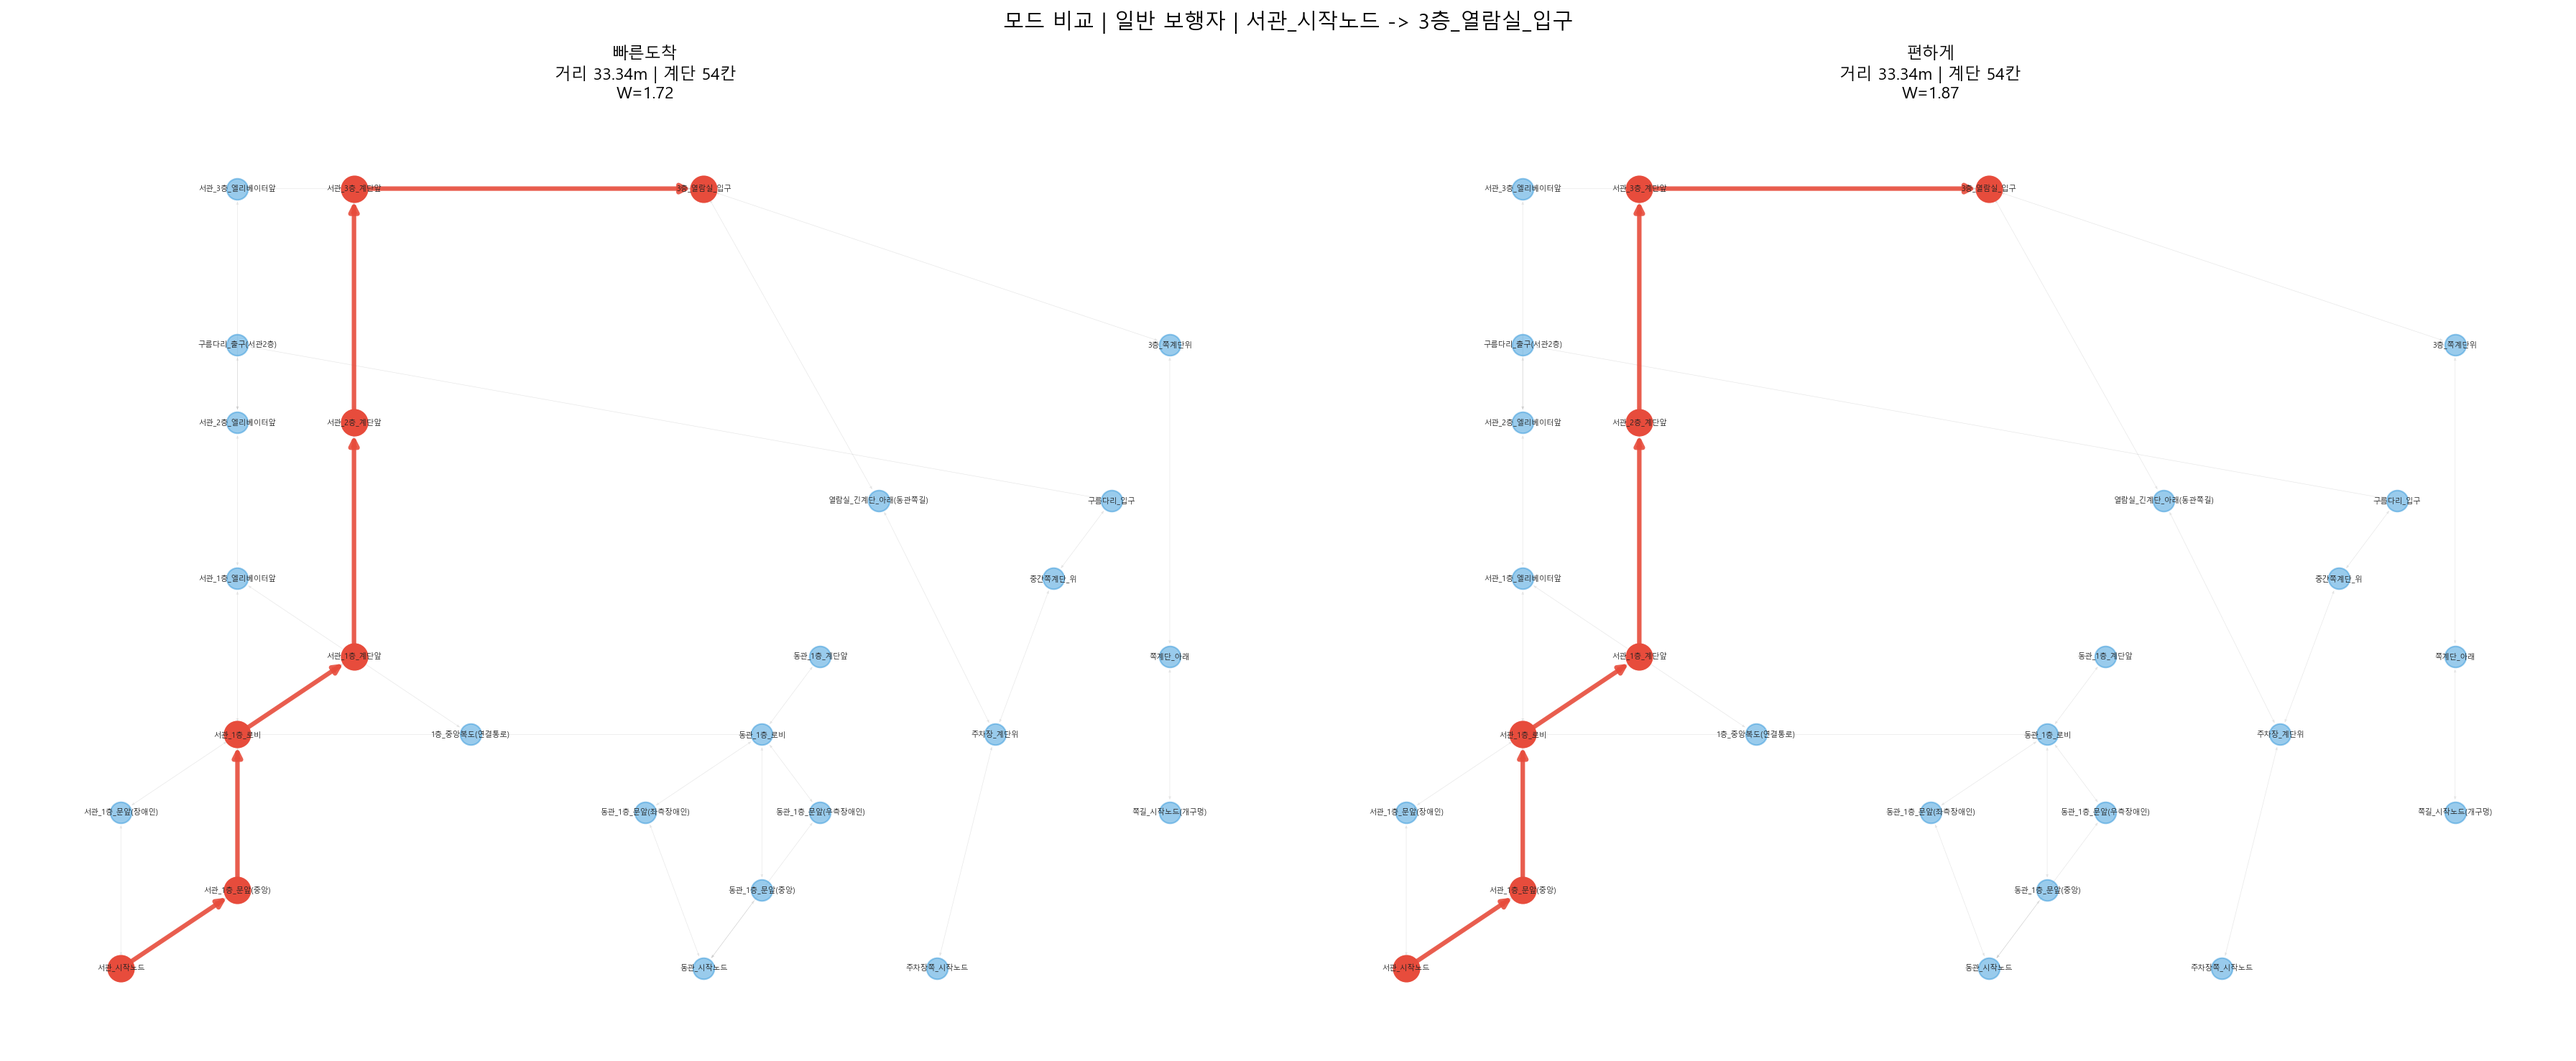
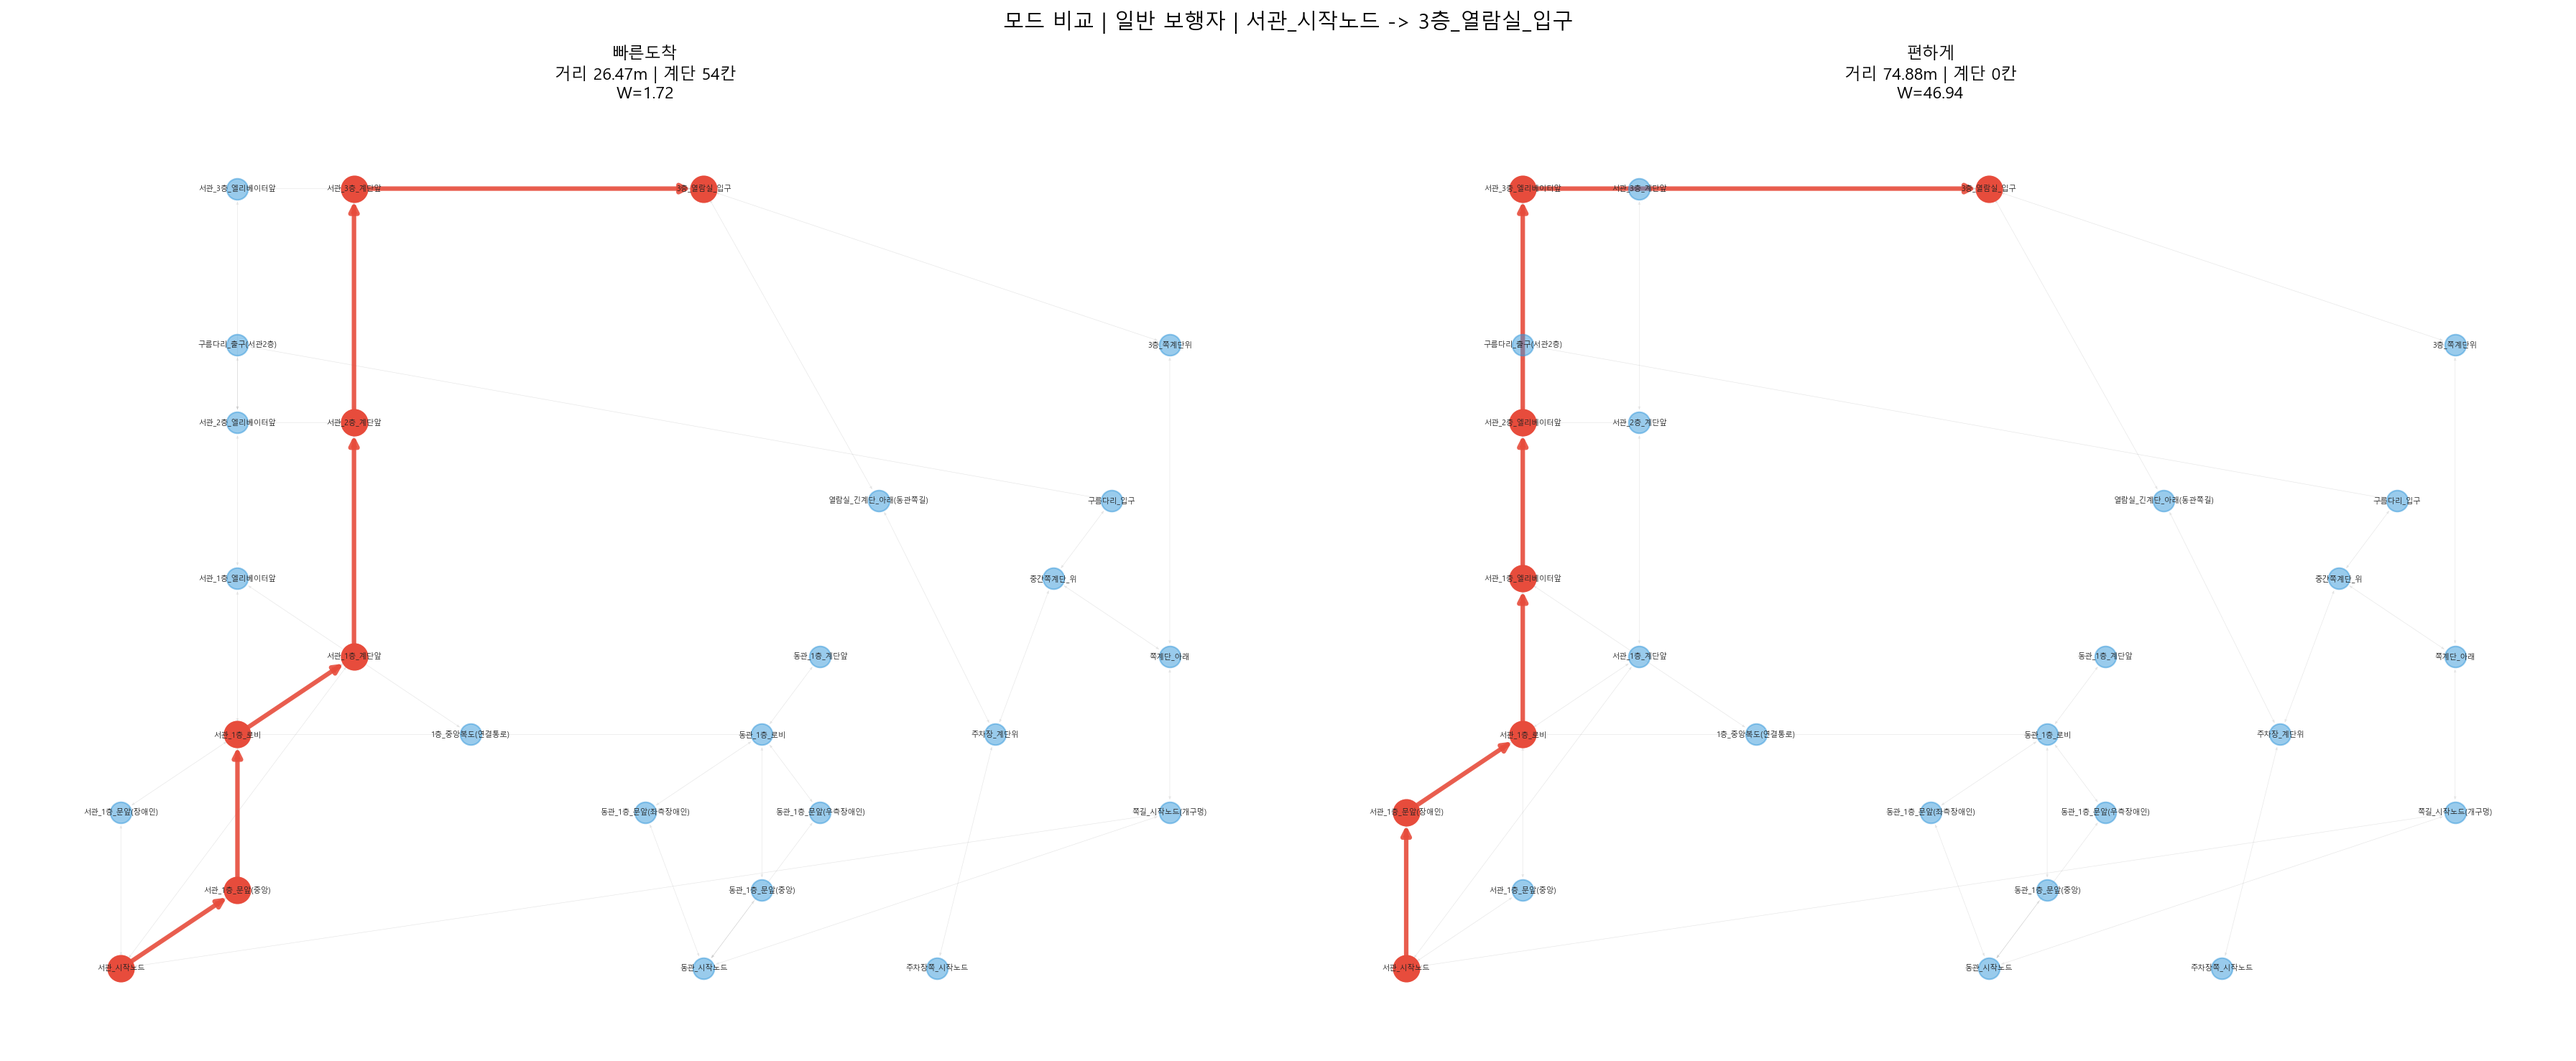
refactor: 무의미한 경로 루프 방지를 위한 길찾기 가중치(Weight) 로직 개선

diff --git a/src/pathfinder.py b/src/pathfinder.py
@@ -47,82 +47,137 @@ def clear_cache():
     _cached_edges = None
 
 
-# ─── 차단 판정 (계단만 차단) ───
-def _is_blocked(edge, profile):
-    stairs = edge["stairs_count"]
-    if profile == "휠체어" and stairs > 0:
-        return True
-    if profile == "유아차" and stairs > 0:
-        return True
-    return False
-
-
-# ─── 가중치 딕셔너리 ───
-WALK_SPEED = 80.0  # m/min
-ELEVATOR_COST = 0.5  # min per floor
-
-STAIR_COST_PER_STEP = {
-    "일반": 0.025,
-    "휠체어": float("inf"),
-    "목발": 0.065,
-    "유아차": float("inf"),
-    "짐": 0.035,
+# ─── 가중치 매트릭스 (독립 변수화) ───
+WALK_SPEEDS = {
+    "일반": 80.0,
+    "휠체어": 55.0,
+    "목발": 40.0,
+    "유아차": 55.0,
+    "짐": 60.0,
 }
 
-STEP_HEIGHT_COST = {
+ELEVATOR_COST = 0.5  # min per floor
+
+STAIR_WEIGHT_MATRIX = {
+    "일반": {
+        "빠른도착": 1.0,
+        "편하게": 2.5
+    },
+    "목발": {
+        "빠른도착": 3.0,
+        "편하게": float("inf")
+    },
+    "짐": {
+        "빠른도착": 2.0,
+        "편하게": 4.0
+    },
+    "휠체어": {
+        "빠른도착": float("inf"),
+        "편하게": float("inf")
+    },
+    "유아차": {
+        "빠른도착": float("inf"),
+        "편하게": float("inf")
+    }
+}
+
+ELEVATOR_WAIT_MATRIX = {
+    "일반": {
+        "빠른도착": 3.0,  # 대기 시간 페널티 적용 (어지간하면 계단 선호)
+        "편하게": 0.2
+    },
+    "목발": {
+        "빠른도착": 0.8,
+        "편하게": 0.2
+    },
+    "짐": {
+        "빠른도착": 1.5,
+        "편하게": 0.2
+    },
+    "휠체어": {
+        "빠른도착": 0.5,
+        "편하게": 0.5
+    },
+    "유아차": {
+        "빠른도착": 0.5,
+        "편하게": 0.5
+    }
+}
+
+STEP_WEIGHT_MATRIX = {
     "일반":   {"없음": 0.0,  "미니": 0.05, "중간": 0.15},
-    "휠체어":  {"없음": 0.0,  "미니": 0.15, "중간": 0.40},
+    "휠체어":  {"없음": 0.0,  "미니": float("inf"), "중간": float("inf")},
     "목발":   {"없음": 0.0,  "미니": 0.12, "중간": 0.35},
-    "유아차":  {"없음": 0.0,  "미니": 0.20, "중간": 0.50},
+    "유아차":  {"없음": 0.0,  "미니": float("inf"), "중간": float("inf")},
     "짐":     {"없음": 0.0,  "미니": 0.05, "중간": 0.15},
 }
 
-DOOR_COST = {
+DOOR_WEIGHT_MATRIX = {
     "일반": {
         "없음": 0.0,
         "밀고당기관문 1번": 0.10,
         "밀고당기관문 2번": 0.20,
         "밀고당기관문 1번 + 자동문 1번": 0.05,
+        "회전문": 0.10,
+        "자동문": 0.0,
+        "밀고 당기는 문": 0.10
     },
     "휠체어": {
         "없음": 0.0,
-        "밀고당기관문 1번": 0.30,
-        "밀고당기관문 2번": 0.50,
-        "밀고당기관문 1번 + 자동문 1번": 0.10,
+        "밀고당기관문 1번": 3.0,
+        "밀고당기관문 2번": 5.0,
+        "밀고당기관문 1번 + 자동문 1번": 1.0,
+        "회전문": float("inf"),
+        "자동문": 1.0,
+        "밀고 당기는 문": 3.0
     },
     "목발": {
         "없음": 0.0,
         "밀고당기관문 1번": 0.15,
         "밀고당기관문 2번": 0.30,
         "밀고당기관문 1번 + 자동문 1번": 0.08,
+        "회전문": 0.50,
+        "자동문": 0.08,
+        "밀고 당기는 문": 0.15
     },
     "유아차": {
         "없음": 0.0,
-        "밀고당기관문 1번": 0.12,
-        "밀고당기관문 2번": 0.25,
-        "밀고당기관문 1번 + 자동문 1번": 0.06,
+        "밀고당기관문 1번": 3.0,
+        "밀고당기관문 2번": 5.0,
+        "밀고당기관문 1번 + 자동문 1번": 1.0,
+        "회전문": float("inf"),
+        "자동문": 1.0,
+        "밀고 당기는 문": 3.0
     },
     "짐": {
         "없음": 0.0,
         "밀고당기관문 1번": 0.12,
         "밀고당기관문 2번": 0.25,
         "밀고당기관문 1번 + 자동문 1번": 0.06,
+        "회전문": 0.20,
+        "자동문": 0.06,
+        "밀고 당기는 문": 0.12
     },
 }
 
-COMFORT_MULTIPLIER = 2.5
+COMFORT_MULTIPLIER = 150.0
 
 
 # ─── 가중치 계산 ───
 def _compute_weight(edge, profile, mode):
+    start = edge.get("start_node", "")
+    end = edge.get("end_node", "")
+
+    # 루프 방지: 시작 노드와 끝 노드가 동일한 불필요한 왕복 엣지의 비용은 무한대로 처리
+    if start == end:
+        return float("inf")
+
     dist = edge["distance_m"]
     stairs = edge["stairs_count"]
     step = edge["step_height"]
     door = edge["door_type"]
     etype = edge["edge_type"]
     obstacle = edge.get("obstacle_info", "")
-    start = edge.get("start_node", "")
-    end = edge.get("end_node", "")
 
     # 열람실 긴계단 식별
     is_long_stair = (
@@ -130,70 +185,50 @@ def _compute_weight(edge, profile, mode):
         "가장 긴 계단" in obstacle
     )
 
+    # 1. 엘리베이터인 경우 가중치 계산
     if etype == "엘리베이터":
-        base = ELEVATOR_COST
+        # 엘리베이터 이용 대기 비용 + 탑승 비용
+        wait_cost = ELEVATOR_WAIT_MATRIX[profile][mode]
+        base = wait_cost + ELEVATOR_COST
+
+    # 2. 계단이 있는 경우 가중치 계산
     elif stairs > 0:
-        is_low_center_stair = "중앙 낮은 계단" in obstacle
-        is_side_road_stair = (
-            "쪽길" in start or "쪽길" in end or
-            "쪽계단" in start or "쪽계단" in end or
-            "쪽길" in obstacle or "쪽계단" in obstacle
-        )
+        # 목발 사용자 빠른 모드: 계단은 최대 2칸까지만 허용, 그 이상은 우회
+        if profile == "목발" and mode == "빠른도착" and stairs > 2:
+            return float("inf")
 
-        # 쪽길입구 계단 간선 예외 처리
-        if is_side_road_stair:
-            if profile in ("휠체어", "유아차", "목발"):
-                return float("inf")
-            else:
-                # 일반 사용자 및 무거운 짐 소지자는 기본 가중치 적용
-                base = stairs * STAIR_COST_PER_STEP[profile]
-        else:
-            # 휠체어 & 유아차는 모든 계단 진입 불가
-            if profile in ("휠체어", "유아차"):
-                return float("inf")
+        # 계단 가중치 룩업
+        stair_weight = STAIR_WEIGHT_MATRIX[profile][mode]
+        if stair_weight == float("inf"):
+            return float("inf")
 
-            # 목발 사용자
-            elif profile == "목발":
-                if mode == "편하게":
-                    # 편하게 선택 시 휠체어와 동일 (계단 절대 불가)
-                    return float("inf")
-                else: # 빠른도착 선택 시
-                    # 완만한 '중앙 낮은 계단'만 예외 허용, 일반 계단은 절대 불가
-                    if is_low_center_stair:
-                        base = 50.0 * (5.0 ** stairs)
-                    else:
-                        return float("inf")
+        base = stairs * stair_weight
 
-            # 무거운 짐 소지자
-            elif profile == "짐":
-                if mode == "편하게":
-                    # 엘리베이터 우회를 최우선 유도하기 위해 페널티 극대화 (5000.0)
-                    base = 5000.0 + stairs * STAIR_COST_PER_STEP[profile]
-                else:
-                    # 빠르게 갈 때는 기본 가중치 적용
-                    base = stairs * STAIR_COST_PER_STEP[profile]
-            else:
-                if mode == "편하게":
-                    # 일반 보행자도 '편하게' 갈 때는 피로도 페널티 가산 (3000.0)
-                    base = 3000.0 + stairs * STAIR_COST_PER_STEP[profile]
-                else:
-                    base = stairs * STAIR_COST_PER_STEP[profile]
-
-        # 열람실 긴계단 추가 페널티 부여 (구름다리 선호)
-        if is_long_stair:
+        # 열람실 긴계단 추가 페널티 부여 (편하게 모드에서만 적용)
+        if is_long_stair and mode == "편하게":
             base += 500.0
+
+    # 3. 평지인 경우
     else:
-        base = dist / WALK_SPEED
+        # 거리 * 거리비용 (거리비용 = 1.0 / 보행속도)
+        speed = WALK_SPEEDS.get(profile, 80.0)
+        base = dist / speed
 
         # 편하게 모드일 때 구름다리 -> 엘리베이터 연계를 위해 계단앞으로 빠지는 우회 복도에 페널티 부여
         if mode == "편하게" and {start, end} == {"서관_2층_계단앞", "서관_2층_엘리베이터앞"}:
             base += 200.0
 
-    comfort = COMFORT_MULTIPLIER if mode == "편하게" else 1.0
-    step_p = STEP_HEIGHT_COST[profile].get(step, 0.0)
-    door_p = DOOR_COST[profile].get(door, 0.0)
+    # 턱 및 문 통과 가중치
+    step_weight = STEP_WEIGHT_MATRIX[profile].get(step, 0.0)
+    door_weight = DOOR_WEIGHT_MATRIX[profile].get(door, 0.0)
 
-    return base + (step_p + door_p) * comfort
+    # 턱이나 문 통과가 불가능한 경우 차단
+    if step_weight == float("inf") or door_weight == float("inf"):
+        return float("inf")
+
+    comfort = COMFORT_MULTIPLIER if mode == "편하게" else 1.0
+
+    return base + (step_weight + door_weight) * comfort
 
 
 # ─── 그래프 빌드 (캐시에서 weight만 재계산) ───
@@ -241,10 +276,6 @@ def build_graph(profile="일반", mode="빠른도착"):
             edge["stairs_count"] = 24
         elif {start, end} == {"동관_3층_계단앞", "동관_4층_계단앞"}:
             edge["stairs_count"] = 23
-
-        # 교통약자(휠체어, 유아차, 목발)는 모든 계단 간선 원천 차단 (Hard Block)
-        if profile in ("휠체어", "유아차", "목발") and edge.get("stairs_count", 0) > 0:
-            continue
 
         w = _compute_weight(edge, profile, mode)
         if w == float("inf"):
@@ -329,9 +360,6 @@ def build_graph(profile="일반", mode="빠른도착"):
     ]
 
     for edge in bypass_edges:
-        if profile in ("휠체어", "유아차", "목발") and edge.get("stairs_count", 0) > 0:
-            continue
-
         w = _compute_weight(edge, profile, mode)
         if w == float("inf"):
             continue
@@ -406,8 +434,15 @@ def find_fallback_path(start, end, profile="일반", mode="빠른도착"):
     G_general = build_graph(profile="일반", mode="빠른도착")
     
     # 만약 profile이 교통약자(휠체어, 유아차, 목발)라면 Fallback 탐색에서도 계단을 완전 차단
+    # (목발의 빠른도착 모드 계단 허용 조건은 최대 2칸 이하인 경우만 적용)
     if profile in ("휠체어", "유아차", "목발"):
-        edges_to_remove = [(u, v) for u, v, d in G_general.edges(data=True) if d.get("stairs_count", 0) > 0]
+        edges_to_remove = []
+        for u, v, d in G_general.edges(data=True):
+            stairs = d.get("stairs_count", 0)
+            if stairs > 0:
+                if profile == "목발" and mode == "빠른도착" and stairs <= 2:
+                    continue
+                edges_to_remove.append((u, v))
         G_general.remove_edges_from(edges_to_remove)
     
     # 그래프 상에 엘리베이터 타입의 노드 찾기

diff --git a/src/api_server.py b/src/api_server.py
@@ -145,18 +145,16 @@ def make_json_safe(value: Any) -> Any:
 
 
 def calculate_estimated_seconds(
-    total_distance_m: float,
-    total_stairs: int,
+    details: list[dict[str, Any]],
     profile: str,
 ) -> int:
     """
-    발표용 예상 이동 시간입니다.
-
-    거리 기반 보행 시간에 계단 통과 시간을 합산합니다.
-    경로 순위 계산 자체는 기존 pathfinder.py의 실제 가중치를 사용합니다.
+    순수 물리적 소요 시간을 초 단위로 계산합니다.
+    인공적인 페널티(comfort_multiplier, 계단 회피 가중치 등)는 전혀 반영하지 않으며,
+    오직 순수 이동 거리/속도, 엘리베이터 실제 대기/탑승 시간, 계단 오르내리는 시간만 합산합니다.
     """
-    speed = PROFILE_SPEED_M_PER_MIN.get(profile, 80.0)
-    walking_minutes = total_distance_m / speed
+    speed_m_per_min = PROFILE_SPEED_M_PER_MIN.get(profile, 80.0)
+    speed_m_per_sec = speed_m_per_min / 60.0
 
     stair_seconds_per_step = {
         "일반": 1.5,
@@ -166,8 +164,30 @@ def calculate_estimated_seconds(
         "짐": 2.2,
     }.get(profile, 1.5)
 
-    stair_seconds = total_stairs * stair_seconds_per_step
-    total_seconds = walking_minutes * 60 + stair_seconds
+    total_seconds = 0.0
+    in_elevator = False  # 엘리베이터 탑승 연속 여부 체크
+
+    for detail in details:
+        etype = detail.get("edge_type", "")
+        dist = float(detail.get("distance_m") or 0.0)
+        stairs = int(detail.get("stairs_count") or 0)
+
+        if etype == "엘리베이터":
+            if not in_elevator:
+                # 엘리베이터 최초 탑승 시: 대기 시간 90초 + 이동 시간 30초
+                total_seconds += 90.0 + 30.0
+                in_elevator = True
+            else:
+                # 연속 탑승 시 (예: 2층->3층 연속): 이동 시간 30초만 추가
+                total_seconds += 30.0
+        else:
+            in_elevator = False
+            # 평지 보행 시간 계산
+            if dist > 0:
+                total_seconds += dist / speed_m_per_sec
+            # 계단 이용 시간 계산
+            if stairs > 0:
+                total_seconds += stairs * stair_seconds_per_step
 
     return max(1, round(total_seconds))
 
@@ -326,8 +346,7 @@ def convert_route(
         "details": details,
         "summary": summary,
         "estimated_seconds": calculate_estimated_seconds(
-            total_distance,
-            total_stairs,
+            details,
             profile,
         ),
         "warnings": build_warnings(details),
